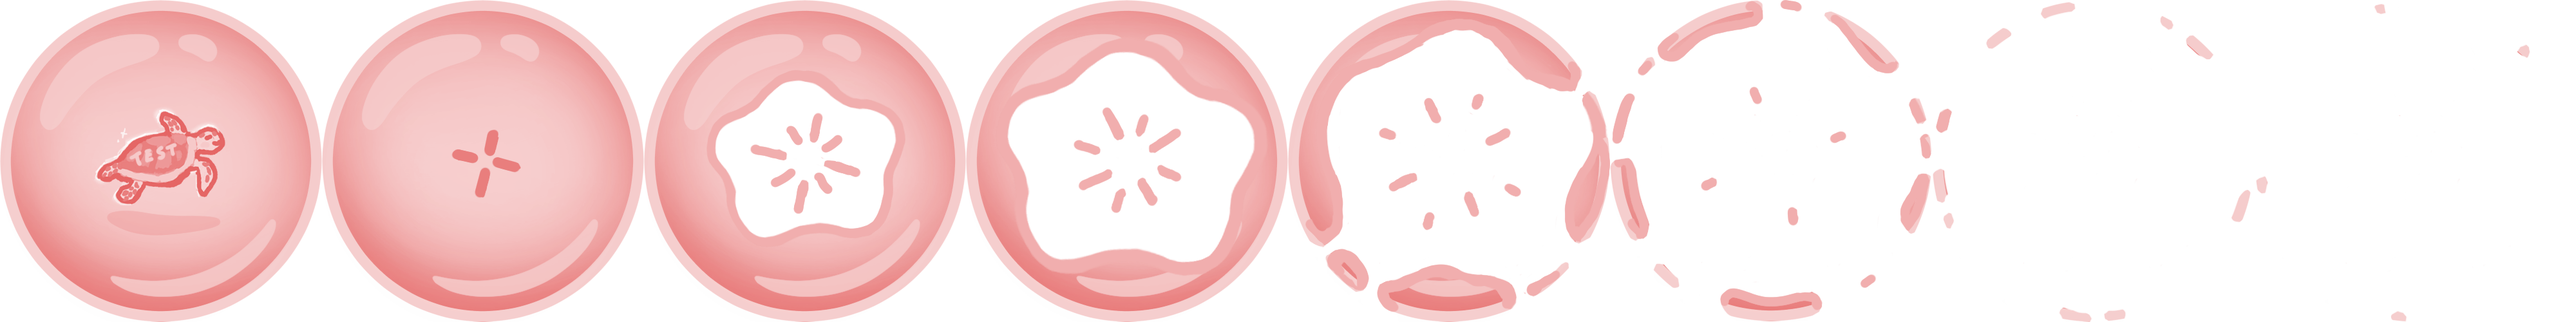
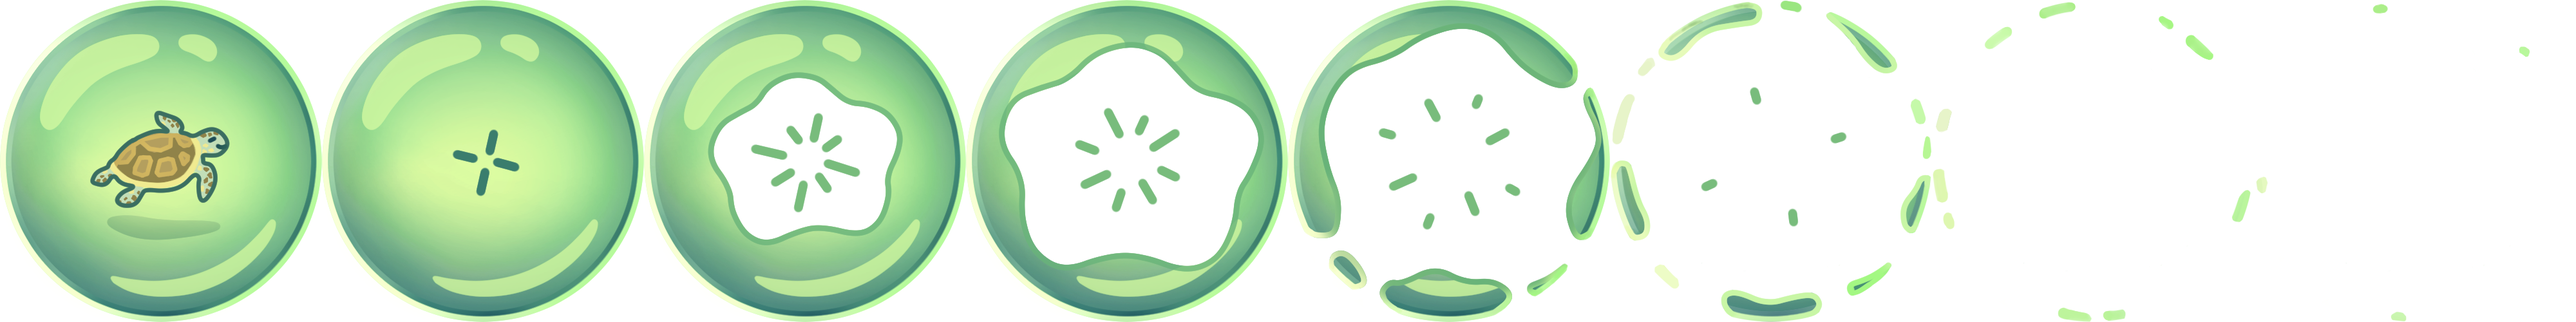
Updated textures

diff --git a/Bubbles/Rendering.cpp b/Bubbles/Rendering.cpp
@@ -33,9 +33,12 @@ Rendering::Rendering(const int a_X, const int a_Y, std::vector<std::unique_ptr<A
 
 void Rendering::PlayDraw() const
 {
+
 	m_Window->draw(*m_Container);
-	m_Window->draw(*m_Line);
+	m_Window->draw(*m_Frame);
 	m_Duck->Draw(*m_Window);
+
+	m_Window->draw(*m_Line);
 	m_Window->draw(*m_NextUpBubbles.at(m_ActiveNextUp));
 	m_PreviewBubbles.at(m_ActiveBubble)->Draw(*m_Window);
 	for (auto& element : m_RenderedBubbles)
@@ -66,8 +69,11 @@ void Rendering::MenuDraw() const
 
 void Rendering::GameOverAnimationDraw() const
 {
+
 	m_Window->draw(*m_Container);
+	m_Window->draw(*m_Frame);
 	m_Duck->Draw(*m_Window);
+
 	for (auto& element : m_RenderedBubbles)
 	{
 		element->Draw(*m_Window);
@@ -151,7 +157,6 @@ void Rendering::MovePointerLine(const float a_X) const
 	sf::Vector2f temp = m_Line->getPosition();
 	temp.x = a_X;
 	m_Line->setPosition(temp);
-	temp.y -= 15;
 	if(a_X == m_Duck->GetPosition().x)
 	{
 		m_Duck->SetAnimate(false, false);
@@ -195,7 +200,7 @@ void Rendering::UpdateHighScores(const std::vector<unsigned int>& a_Scores) cons
 
 void Rendering::Reset()
 {
-	m_ActiveBubble = EBUBBLE_TYPE::TYPE_CLAM;
+	m_ActiveBubble = EBUBBLE_TYPE::TYPE_STAR;
 	//m_Score->SetText("Score:\n 0");
 }
 
@@ -213,7 +218,7 @@ void Rendering::LoadBackground()
 	m_BackgroundSprite->setTexture(m_BackgroundTexture.get());
 	sf::Vector2f windowSize = sf::Vector2f(static_cast<float>(m_Window->getSize().x),static_cast<float>(m_Window->getSize().y));
 	sf::Vector2f v = sf::Vector2f(windowSize.x, windowSize.y);
-	m_BackgroundSprite->setTextureRect(sf::IntRect(0, 600, static_cast<int>(windowSize.x), static_cast<int>(windowSize.y)));
+	//m_BackgroundSprite->setTextureRect(sf::IntRect(0, 0, static_cast<int>(windowSize.x), static_cast<int>(windowSize.y)));
 	m_BackgroundSprite->setSize(v);
 
 	//Container
@@ -231,6 +236,16 @@ void Rendering::LoadBackground()
 	sf::Vector2f basePos = sf::Vector2f((windowSize.x / 2.f) - (width / 2.f), ((windowSize.y - height) / 2.f));
 	m_Container->setPosition(basePos);
 
+	m_FrameTexture = std::make_unique<sf::Texture>();
+	m_FrameTexture->loadFromFile(FRAME_FILENAME);
+	m_Frame = std::make_unique<sf::RectangleShape>();
+	m_Frame->setTexture(m_FrameTexture.get());
+	m_Frame->setSize(sf::Vector2f(Settings::get().GetFrameWidth(), Settings::get().GetFrameHeight()));
+	m_Frame->setOrigin(m_Frame->getSize().x / 2.f, m_Frame->getSize().y / 2.f);
+	sf::Vector2f position = m_Container->getGlobalBounds().getPosition();
+	sf::Vector2f size = m_Container->getGlobalBounds().getSize();
+	m_Frame->setPosition(position.x + size.x / 2.f, position.y + size.y / 2.f -15);
+
 	m_SoundTexture = std::make_unique<sf::Texture>();
 	m_SoundTexture->loadFromFile(SOUND_FILENAME);
 	m_SoundButton = std::make_unique<sf::RectangleShape>();
@@ -244,8 +259,8 @@ void Rendering::LoadBackground()
 void Rendering::LoadBubbleTextures()
 {
 	m_BubbleTextures = std::map<EBUBBLE_TYPE,std::unique_ptr<sf::Texture>>();
-	m_BubbleTextures.insert(std::pair(EBUBBLE_TYPE::TYPE_CLAM,std::make_unique<sf::Texture>()));
-	m_BubbleTextures[EBUBBLE_TYPE::TYPE_CLAM]->loadFromFile(CLAM_FILENAME);
+	m_BubbleTextures.insert(std::pair(EBUBBLE_TYPE::TYPE_STAR,std::make_unique<sf::Texture>()));
+	m_BubbleTextures[EBUBBLE_TYPE::TYPE_STAR]->loadFromFile(STAR_FILENAME);
 	
 	m_BubbleTextures.insert(std::pair(EBUBBLE_TYPE::TYPE_CRAB, std::make_unique<sf::Texture>()));
 	m_BubbleTextures[EBUBBLE_TYPE::TYPE_CRAB]->loadFromFile(CRAB_FILENAME);
@@ -278,8 +293,8 @@ void Rendering::LoadBubbleTextures()
 void Rendering::LoadNextUpTextures()
 {
 	m_NextUpTextures = std::map<EBUBBLE_TYPE, std::unique_ptr<sf::Texture>>();
-	m_NextUpTextures.insert(std::pair(EBUBBLE_TYPE::TYPE_CLAM, std::make_unique<sf::Texture>()));
-	m_NextUpTextures[EBUBBLE_TYPE::TYPE_CLAM]->loadFromFile(CLAM_NEXT_FILENAME);
+	m_NextUpTextures.insert(std::pair(EBUBBLE_TYPE::TYPE_STAR, std::make_unique<sf::Texture>()));
+	m_NextUpTextures[EBUBBLE_TYPE::TYPE_STAR]->loadFromFile(STAR_NEXT_FILENAME);
 
 	m_NextUpTextures.insert(std::pair(EBUBBLE_TYPE::TYPE_CRAB, std::make_unique<sf::Texture>()));
 	m_NextUpTextures[EBUBBLE_TYPE::TYPE_CRAB]->loadFromFile(CRAB_NEXT_FILENAME);
@@ -512,7 +527,7 @@ void Rendering::CreateDuck()
 void Rendering::CreateNextUpSprites()
 {
 	m_NextUpBubbles = std::map<EBUBBLE_TYPE, std::unique_ptr<sf::Sprite>>();
-	m_NextUpBubbles.insert(std::pair(EBUBBLE_TYPE::TYPE_CLAM, std::make_unique<sf::Sprite>(*m_NextUpTextures.at(EBUBBLE_TYPE::TYPE_CLAM))));
+	m_NextUpBubbles.insert(std::pair(EBUBBLE_TYPE::TYPE_STAR, std::make_unique<sf::Sprite>(*m_NextUpTextures.at(EBUBBLE_TYPE::TYPE_STAR))));
 	m_NextUpBubbles.insert(std::pair(EBUBBLE_TYPE::TYPE_CRAB, std::make_unique<sf::Sprite>(*m_NextUpTextures.at(EBUBBLE_TYPE::TYPE_CRAB))));
 	m_NextUpBubbles.insert(std::pair(EBUBBLE_TYPE::TYPE_FISH, std::make_unique<sf::Sprite>(*m_NextUpTextures.at(EBUBBLE_TYPE::TYPE_FISH))));
 	m_NextUpBubbles.insert(std::pair(EBUBBLE_TYPE::TYPE_FROG, std::make_unique<sf::Sprite>(*m_NextUpTextures.at(EBUBBLE_TYPE::TYPE_FROG))));
@@ -523,7 +538,7 @@ void Rendering::CreateNextUpSprites()
 	m_NextUpBubbles.insert(std::pair(EBUBBLE_TYPE::TYPE_SQUID, std::make_unique<sf::Sprite>(*m_NextUpTextures.at(EBUBBLE_TYPE::TYPE_SQUID))));
 	m_NextUpBubbles.insert(std::pair(EBUBBLE_TYPE::TYPE_WHALE, std::make_unique<sf::Sprite>(*m_NextUpTextures.at(EBUBBLE_TYPE::TYPE_WHALE))));
 
-	sf::Vector2f size = BubbleMath::ToVector2f(m_NextUpTextures.at(EBUBBLE_TYPE::TYPE_CLAM)->getSize());
+	sf::Vector2f size = BubbleMath::ToVector2f(m_NextUpTextures.at(EBUBBLE_TYPE::TYPE_STAR)->getSize());
 	float factorX = Settings::get().GetNextUpWidth() / size.x;
 	float factorY = Settings::get().GetNextUpHeight() / size.y;
 

diff --git a/Bubbles/Settings.cpp b/Bubbles/Settings.cpp
@@ -59,6 +59,10 @@ void Settings::LoadSettings()
                 m_NextUpWidth = stof(value);
             if (name == "NEXT_UP_HEIGHT")
                 m_NextUpHeight = stof(value);
+            if (name == "CONTAINER_FRAME_WIDTH")
+                m_FrameWidth = stof(value);
+            if (name == "CONTAINER_FRAME_HEIGHT")
+                m_FrameHeight = stof(value);
         }
         file.close();
     }
@@ -91,13 +95,21 @@ void Settings::SetSoundEnabled(bool a_Enabled)
     std::vector<std::string> lines;
     std::ifstream infile("Assets/Settings.save");
     std::string line;
+    int index{};
+    int counter = 0;
     while (getline(infile, line)) {
+        if(line.starts_with("SOUND_ENABLED|"))
+        {
+            index = counter;
+            if (&line[line.length() - 1] == isEnabledAsString.c_str()) return;
+        }
         lines.push_back(line);
+        counter++;
     }
     infile.close();
 
     // Modify the last line
-    lines.back() = "SOUND_ENABLED|" + isEnabledAsString;
+    lines[index] = "SOUND_ENABLED|" + isEnabledAsString;
 
     std::ofstream outfile("Assets/Settings.save");
     for (const std::string& nline : lines) {

diff --git a/Bubbles/FilePaths.h b/Bubbles/FilePaths.h
@@ -1,6 +1,6 @@
 #pragma once
 //Files
-#define CLAM_FILENAME "Assets/Shapes/0.png"
+#define STAR_FILENAME "Assets/Shapes/0.png"
 #define CRAB_FILENAME "Assets/Shapes/1.png"
 #define FISH_FILENAME "Assets/Shapes/2.png"
 #define FROG_FILENAME "Assets/Shapes/3.png"
@@ -11,7 +11,7 @@
 #define SQUID_FILENAME "Assets/Shapes/8.png"
 #define WHALE_FILENAME "Assets/Shapes/9.png"
 
-#define CLAM_NEXT_FILENAME "Assets/Shapes/NextUp/0.png"
+#define STAR_NEXT_FILENAME "Assets/Shapes/NextUp/0.png"
 #define CRAB_NEXT_FILENAME "Assets/Shapes/NextUp/1.png"
 #define FISH_NEXT_FILENAME "Assets/Shapes/NextUp/2.png"
 #define FROG_NEXT_FILENAME "Assets/Shapes/NextUp/3.png"
@@ -29,6 +29,7 @@
 
 #define GAME_BACKGROUND_FILENAME "Assets/background.jpg"
 #define CONTAINER_FILENAME "Assets/Other/ContainerBackground.png"
+#define FRAME_FILENAME "Assets/Other/ContainerFrame.png"
 #define GAME_OVER_FILENAME "Assets/Other/GameOver.png"
 #define SCORE_FILENAME "Assets/Other/ScoreBackground.png"
 #define HIGH_SCORE_TITLE_FILENAME "Assets/Other/HighScore.png"

diff --git a/Bubbles/Settings.h b/Bubbles/Settings.h
@@ -18,7 +18,10 @@ public:
     [[nodiscard]] float GetWindowHeight() const { return m_WindowHeight; }
     [[nodiscard]] float GetContainerWidth() const { return m_ContainerWidth; }
     [[nodiscard]] float GetContainerHeight() const { return m_ContainerHeight; }
-    [[nodiscard]] int GetAaLevel() const { return m_AntiAliasingLevel; }
+    [[nodiscard]] float GetFrameWidth() const { return m_FrameWidth; }
+    [[nodiscard]] float GetFrameHeight() const { return m_FrameHeight; }
+
+	[[nodiscard]] int GetAaLevel() const { return m_AntiAliasingLevel; }
 
     [[nodiscard]] float GetPointerMoveSpeed() const { return m_PointerMoveSpeed; }
     [[nodiscard]] float GetPixelToMeter() const { return m_PixelToMeter; }
@@ -51,6 +54,8 @@ private:
     float m_WindowHeight = 0;
     float m_ContainerWidth = 0;
     float m_ContainerHeight = 0;
+    float m_FrameWidth = 0;
+    float m_FrameHeight = 0;
 
     float m_PointerMoveSpeed = 0;
 

diff --git a/Bubbles/BubbleGame.cpp b/Bubbles/BubbleGame.cpp
@@ -197,7 +197,7 @@ void BubbleGame::PlayInput(const sf::Event& a_Event) const
 		}
 	}
 	
-	if (a_Event.type == sf::Event::KeyPressed && a_Event.key.scancode == sf::Keyboard::Scan::Num0) m_Gameplay->CheatNextBubble(EBUBBLE_TYPE::TYPE_CLAM);
+	if (a_Event.type == sf::Event::KeyPressed && a_Event.key.scancode == sf::Keyboard::Scan::Num0) m_Gameplay->CheatNextBubble(EBUBBLE_TYPE::TYPE_STAR);
 	if (a_Event.type == sf::Event::KeyPressed && a_Event.key.scancode == sf::Keyboard::Scan::Num1) m_Gameplay->CheatNextBubble(EBUBBLE_TYPE::TYPE_CRAB);
 	if (a_Event.type == sf::Event::KeyPressed && a_Event.key.scancode == sf::Keyboard::Scan::Num2) m_Gameplay->CheatNextBubble(EBUBBLE_TYPE::TYPE_FISH);
 	if (a_Event.type == sf::Event::KeyPressed && a_Event.key.scancode == sf::Keyboard::Scan::Num3) m_Gameplay->CheatNextBubble(EBUBBLE_TYPE::TYPE_FROG);

diff --git a/Bubbles/Declarations.h b/Bubbles/Declarations.h
@@ -30,7 +30,7 @@ enum class EOBJECT_TYPE
 
 enum class EBUBBLE_TYPE
 {
-	TYPE_CLAM = 0,
+	TYPE_STAR = 0,
 	TYPE_CRAB = 1,
 	TYPE_FISH = 2,
 	TYPE_FROG = 3,
@@ -42,7 +42,7 @@ enum class EBUBBLE_TYPE
 	TYPE_WHALE = 9
 };
 
-static const std::map<EBUBBLE_TYPE, float> bubble_weights = { {EBUBBLE_TYPE::TYPE_CLAM, 1}, {EBUBBLE_TYPE::TYPE_CRAB, 1.5}, {EBUBBLE_TYPE::TYPE_FISH, 2},
+static const std::map<EBUBBLE_TYPE, float> bubble_weights = { {EBUBBLE_TYPE::TYPE_STAR, 1}, {EBUBBLE_TYPE::TYPE_CRAB, 1.5}, {EBUBBLE_TYPE::TYPE_FISH, 2},
 												   {EBUBBLE_TYPE::TYPE_FROG, 3},{EBUBBLE_TYPE::TYPE_JELLY, 3.5}, {EBUBBLE_TYPE::TYPE_KRILL, 4},
 															{EBUBBLE_TYPE::TYPE_SEAL, 5}, {EBUBBLE_TYPE::TYPE_SHARK, 6}, {EBUBBLE_TYPE::TYPE_SQUID, 7},
 												   {EBUBBLE_TYPE::TYPE_WHALE, 8} };

diff --git a/Bubbles/Rendering.h b/Bubbles/Rendering.h
@@ -81,12 +81,16 @@ private:
 	std::vector<std::unique_ptr<AnimatedSprite>>& m_RenderedBubbles;
 	std::unique_ptr<sf::Texture> m_ContainerTexture;
 	std::unique_ptr<sf::RectangleShape> m_Container;
+	std::unique_ptr<sf::Texture> m_FrameTexture;
+	std::unique_ptr<sf::RectangleShape> m_Frame;
+
 	std::map<EBUBBLE_TYPE,std::unique_ptr<sf::Texture>> m_BubbleTextures;
 	std::map<EBUBBLE_TYPE,std::unique_ptr<sf::Texture>> m_NextUpTextures;
 	EBUBBLE_TYPE m_ActiveBubble;
 	EBUBBLE_TYPE m_ActiveNextUp;
 	std::map<EBUBBLE_TYPE, std::unique_ptr<AnimatedSprite>> m_PreviewBubbles;
 	std::map<EBUBBLE_TYPE, std::unique_ptr<sf::Sprite>> m_NextUpBubbles;
+
 	std::unique_ptr<sf::RectangleShape> m_Line;
 	std::unique_ptr<sf::Texture> m_DuckTexture;
 	std::unique_ptr<AnimatedSprite> m_Duck;
